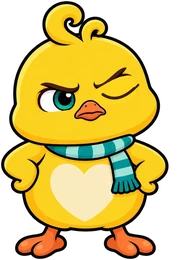
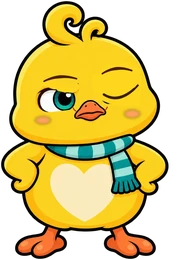
Pause looping animations while scrolling; chick goes grumpy then smiles and winks, no notes

diff --git a/lift-fx.js b/lift-fx.js
@@ -44,8 +44,7 @@
   var BIRD =
     // the user's own chick drawing: an open-eye frame and a wink frame stacked on top of each other
     '<img class="eb-chick" src="/images/early-bird/chick.webp" alt="" width="192" height="260" decoding="async">' +
-    '<img class="eb-chick eb-chick-wink" src="/images/early-bird/chick-wink.webp" alt="" width="192" height="260" decoding="async">' +
-    '<span class="eb-note eb-note-1">♪</span><span class="eb-note eb-note-2">♫</span>';
+    '<img class="eb-chick eb-chick-wink" src="/images/early-bird/chick-wink.webp?v=2" alt="" width="192" height="260" decoding="async">';
 
   function setup() {
     [].forEach.call(document.querySelectorAll(".ticket-wrap"), function (w) {
@@ -337,4 +336,17 @@
   new MutationObserver(setup).observe(document.documentElement, { childList: true, subtree: true });
   document.addEventListener("DOMContentLoaded", setup);
   setup();
+})();
+
+// Smooth scrolling: while the page is actively scrolling, pause looping decorative
+// animations (sparkles, glows, gradient flows). Several of them sit inside drop-shadow
+// filters (ticket cards), which forces a full repaint of the filtered block every frame.
+// They resume ~180ms after scrolling stops, so the effect is invisible.
+(function () {
+  var root = document.documentElement, t = 0, on = false;
+  window.addEventListener("scroll", function () {
+    if (!on) { on = true; root.classList.add("is-scrolling"); }
+    clearTimeout(t);
+    t = setTimeout(function () { on = false; root.classList.remove("is-scrolling"); }, 180);
+  }, { passive: true });
 })();

diff --git a/devfest-site-v10.css b/devfest-site-v10.css
@@ -3653,3 +3653,23 @@ dialog.cfp-dialog > div > div:last-child {
   .partner-photo { transition: none; }
   .partner-photo:hover { transform: none; clip-path: inset(0 round 12px); }
 }
+
+/* ---------- Scroll performance ---------- */
+/* looping animations pause while the page scrolls (class set by lift-fx.js) */
+html.is-scrolling *,
+html.is-scrolling *::before,
+html.is-scrolling *::after { animation-play-state: paused !important; }
+/* the ticket cards' shadow filter: rasterize once on its own layer */
+.ticket-wrap { will-change: filter; }
+/* Early Bird chick: grumpy first, then it smiles and winks (and keeps smiling while hovered) */
+.eb-note { display: none !important; }
+.eb-ticket:hover .eb-chick-wink { animation: ebChickTilt 2.6s ease-in-out 0.5s both, ebChickSmile 2.6s ease 0.5s both; }
+@keyframes ebChickSmile {
+  0%, 42% { opacity: 0; }
+  50%, 100% { opacity: 1; }
+}
+@keyframes ebChickTilt {
+  0%, 42%  { transform: rotate(0deg); }
+  55%      { transform: rotate(-7deg) translateY(-3px); }
+  75%, 100% { transform: rotate(-4deg) translateY(-1px); }
+}

diff --git a/index.html b/index.html
@@ -26,7 +26,7 @@
       type="image/webp"
       fetchpriority="high"
     />
-    <link rel="stylesheet" href="/devfest-site-v10.css?v=108" />
+    <link rel="stylesheet" href="/devfest-site-v10.css?v=110" />
     <title>DevFest Luxembourg 2027</title>
     <meta name="description" content="DevFest Luxembourg 2027 — a free, community-driven technology festival for developers in Luxembourg and the Greater Region." />
     <meta name="robots" content="noindex, nofollow" />
@@ -40,6 +40,6 @@
     <script src="/stat-fx.js?v=1" defer></script>
     <script src="/gallery-fx.js?v=3" defer></script>
     <script src="/nav-fx.js?v=2" defer></script>
-    <script src="/lift-fx.js?v=23" defer></script>
+    <script src="/lift-fx.js?v=25" defer></script>
   </body>
 </html>
